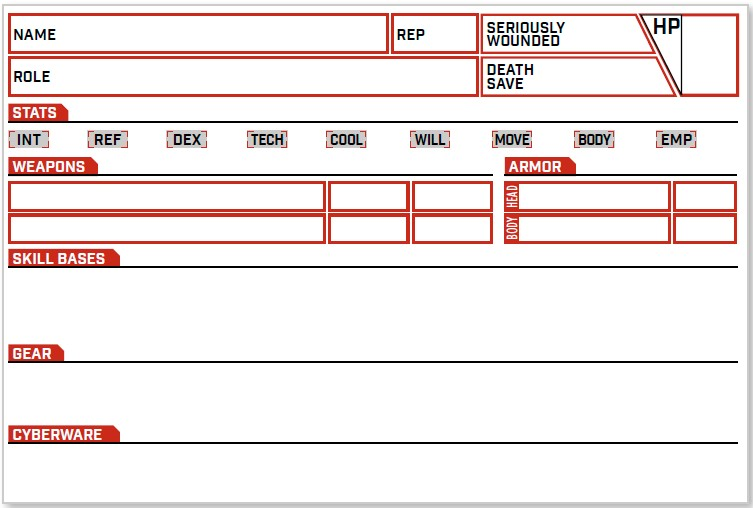
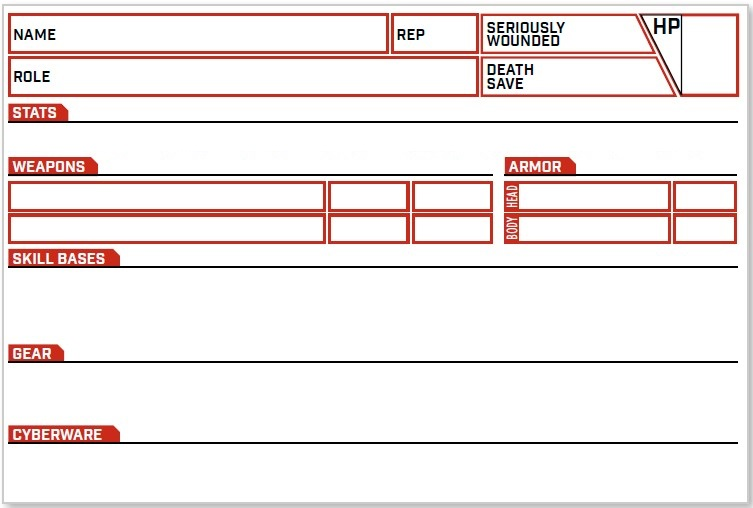
added luck to mookview and adjusted accordingly

diff --git a/MookViewer.py b/MookViewer.py
@@ -139,22 +139,23 @@ def get_index(*arg):
     mookint_label['text'] = stats.get('Int')
     mookref_label['text'] = stats.get('Ref')
     if len(stats.get('Ref')) > 2:
-        mookref_label.place(x=131, y=128)
+        mookref_label.place(x=101, y=128)
     else:
-        mookref_label.place(x=143, y=128)
+        mookref_label.place(x=115, y=128)
     mookdex_label['text'] = stats.get('Dex')
     if len(stats.get('Dex')) > 2:
-        mookdex_label.place(x=210, y=128)
+        mookdex_label.place(x=185, y=128)
     else:
-        mookdex_label.place(x=220, y=128)
+        mookdex_label.place(x=200, y=128)
     mooktech_label['text'] = stats.get('Tech')
     mookcool_label['text'] = stats.get('Cool')
+    mookluck_label['text'] = stats.get('Luck')
     mookwill_label['text'] = stats.get('Will')
     mookmove_label['text'] = stats.get('Move')
     if len(stats.get('Move')) > 2:
-        mookmove_label.place(x=536, y=128)
+        mookmove_label.place(x=570, y=128)
     else:
-        mookmove_label.place(x=546, y=128)
+        mookmove_label.place(x=580, y=128)
     mookbody_label['text'] = stats.get('Body')
     mookemp_label['text'] = stats.get('Emp')
     count = 1
@@ -227,26 +228,48 @@ mookseriouslywounded_label = tk.Label(win, text="sw", font=("Arial", 12), bg='#f
 mookseriouslywounded_label.place(x=580, y=25)
 mookdeathsave_label = tk.Label(win, text="ds", font=("Arial", 12), bg='#fff', fg='#000')
 mookdeathsave_label.place(x=580, y=66)
-mookhp_label = tk.Label(win, text="hp", font=("Arial", 20), bg='#fff', fg='#000')
-mookhp_label.place(x=692, y=39)
+mookhp_label = tk.Label(win, text="hp", font=("Arial", 26), bg='#fff', fg='#000')
+mookhp_label.place(x=687, y=33)
+intlabel = tk.Label(win, text="INT ", font=("Arial", 12), bg='#bbb', fg='#000')
+intlabel.place(x=10, y=128)
 mookint_label = tk.Label(win, text="int", font=("Arial", 12), bg='#fff', fg='#000')
-mookint_label.place(x=60, y=128)
+mookint_label.place(x=45, y=128)
+reflabel = tk.Label(win, text="REF ", font=("Arial", 12), bg='#bbb', fg='#000')
+reflabel.place(x=63, y=128)
 mookref_label = tk.Label(win, text="ref", font=("Arial", 12), bg='#fff', fg='#000')
-mookref_label.place(x=143, y=128)
+mookref_label.place(x=115, y=128)
+dexlabel = tk.Label(win, text="DEX ", font=("Arial", 12), bg='#bbb', fg='#000')
+dexlabel.place(x=140, y=128)
 mookdex_label = tk.Label(win, text="dex", font=("Arial", 12), bg='#fff', fg='#000')
-mookdex_label.place(x=220, y=128)
+mookdex_label.place(x=200, y=128)
+techlabel = tk.Label(win, text="TECH", font=("Arial", 12), bg='#bbb', fg='#000')
+techlabel.place(x=225, y=128)
 mooktech_label = tk.Label(win, text="tech", font=("Arial", 12), bg='#fff', fg='#000')
-mooktech_label.place(x=302, y=128)
+mooktech_label.place(x=280, y=128)
+coollabel = tk.Label(win, text="COOL", font=("Arial", 12), bg='#bbb', fg='#000')
+coollabel.place(x=300, y=128)
 mookcool_label = tk.Label(win, text="cool", font=("Arial", 12), bg='#fff', fg='#000')
-mookcool_label.place(x=382, y=128)
+mookcool_label.place(x=355, y=128)
+willlabel = tk.Label(win, text="WILL", font=("Arial", 12), bg='#bbb', fg='#000')
+willlabel.place(x=375, y=128)
 mookwill_label = tk.Label(win, text="will", font=("Arial", 12), bg='#fff', fg='#000')
-mookwill_label.place(x=464, y=128)
+mookwill_label.place(x=423, y=128)
+lucklabel = tk.Label(win, text="LUCK", font=("Arial", 12), bg='#bbb', fg='#000')
+lucklabel.place(x=445, y=128)
+mookluck_label = tk.Label(win, text="0", font=("Arial", 12), bg='#fff', fg='#000')
+mookluck_label.place(x=497, y=128)
+movelabel = tk.Label(win, text="MOVE", font=("Arial", 12), bg='#bbb', fg='#000')
+movelabel.place(x=515, y=128)
 mookmove_label = tk.Label(win, text="move", font=("Arial", 12), bg='#fff', fg='#000')
-mookmove_label.place(x=546, y=128)
+mookmove_label.place(x=580, y=128)
+bodylabel = tk.Label(win, text="BODY", font=("Arial", 12), bg='#bbb', fg='#000')
+bodylabel.place(x=610, y=128)
 mookbody_label = tk.Label(win, text="body", font=("Arial", 12), bg='#fff', fg='#000')
-mookbody_label.place(x=628, y=128)
+mookbody_label.place(x=663, y=128)
+emplabel = tk.Label(win, text="EMP", font=("Arial", 12), bg='#bbb', fg='#000')
+emplabel.place(x=680, y=128)
 mookemp_label = tk.Label(win, text="emp", font=("Arial", 12), bg='#fff', fg='#000')
-mookemp_label.place(x=710, y=128)
+mookemp_label.place(x=725, y=128)
 mookweapon1name_label = tk.Label(win, text="w1", font=("Arial", 12), bg='#fff', fg='#000')
 mookweapon1name_label.place(x=20, y=186)
 mookweapon1rof_label = tk.Label(win, text="rof", font=("Arial", 12), bg='#fff', fg='#000')

diff --git a/MookAdder.py b/MookAdder.py
@@ -1,0 +1,78 @@
+import databaseTools
+import mook
+import tkinter as tk
+from tkinter import ttk 
+from PIL import ImageTk, Image
+import numbers
+
+db = databaseTools.databaseTools()
+
+win = tk.Tk()
+win.geometry("753x508")
+win.title("Cyberpunk Red Mook Adder")
+
+background_image = Image.open("background.jpg")
+background = ImageTk.PhotoImage(background_image)
+image_label = tk.Label(win , image = background)
+image_label.place(x = 0 , y = 0)
+
+mooknaname_text = tk.Text(win, height=1, width=20, font=("Arial", 12), bg='#fff', fg='#000')
+mooknaname_text.place(x=80, y=25)
+mookrole_text = tk.Text(win, height=1, width=20, font=("Arial", 12), bg='#fff', fg='#000')
+mookrole_text.place(x=80, y=66)
+mookrep_text = tk.Text(win, height=1, width=3, font=("Arial", 12), bg='#fff', fg='#000')
+mookrep_text.place(x=435, y=25)
+mookseriouslywounded_label = tk.Label(win, text="0", font=("Arial", 12), bg='#fff', fg='#000')
+mookseriouslywounded_label.place(x=580, y=25)
+mookdeathsave_label = tk.Label(win, text="0", font=("Arial", 12), bg='#fff', fg='#000')
+mookdeathsave_label.place(x=580, y=66)
+mookhp_label = tk.Label(win, text="0", font=("Arial", 20), bg='#fff', fg='#000')
+mookhp_label.place(x=692, y=39)
+mookint_label = tk.Label(win, text="int", font=("Arial", 12), bg='#fff', fg='#000')
+mookint_label.place(x=60, y=128)
+mookref_label = tk.Label(win, text="ref", font=("Arial", 12), bg='#fff', fg='#000')
+mookref_label.place(x=143, y=128)
+mookdex_label = tk.Label(win, text="dex", font=("Arial", 12), bg='#fff', fg='#000')
+mookdex_label.place(x=220, y=128)
+mooktech_label = tk.Label(win, text="tech", font=("Arial", 12), bg='#fff', fg='#000')
+mooktech_label.place(x=302, y=128)
+mookcool_label = tk.Label(win, text="cool", font=("Arial", 12), bg='#fff', fg='#000')
+mookcool_label.place(x=382, y=128)
+mookwill_label = tk.Label(win, text="will", font=("Arial", 12), bg='#fff', fg='#000')
+mookwill_label.place(x=464, y=128)
+mookmove_label = tk.Label(win, text="move", font=("Arial", 12), bg='#fff', fg='#000')
+mookmove_label.place(x=546, y=128)
+mookbody_label = tk.Label(win, text="body", font=("Arial", 12), bg='#fff', fg='#000')
+mookbody_label.place(x=628, y=128)
+mookemp_label = tk.Label(win, text="emp", font=("Arial", 12), bg='#fff', fg='#000')
+mookemp_label.place(x=710, y=128)
+mookweapon1name_label = tk.Label(win, text="w1", font=("Arial", 12), bg='#fff', fg='#000')
+mookweapon1name_label.place(x=20, y=186)
+mookweapon1rof_label = tk.Label(win, text="rof", font=("Arial", 12), bg='#fff', fg='#000')
+mookweapon1rof_label.place(x=361, y=186)
+mookweapon1damage_label = tk.Label(win, text="dmg", font=("Arial", 12), bg='#fff', fg='#000')
+mookweapon1damage_label.place(x=441, y=186)
+mookweapon2name_label = tk.Label(win, text="w2", font=("Arial", 12), bg='#fff', fg='#000')
+mookweapon2name_label.place(x=20, y=219)
+mookweapon2rof_label = tk.Label(win, text="rof", font=("Arial", 12), bg='#fff', fg='#000')
+mookweapon2rof_label.place(x=361, y=219)
+mookweapon2damage_label = tk.Label(win, text="dmg", font=("Arial", 12), bg='#fff', fg='#000')
+mookweapon2damage_label.place(x=441, y=219)
+mookarmourhead_label = tk.Label(win, text="head", font=("Arial", 12), bg='#fff', fg='#000')
+mookarmourhead_label.place(x=522, y=186)
+mookarmourheadsp_label = tk.Label(win, text="spec", font=("Arial", 12), bg='#fff', fg='#000')
+mookarmourheadsp_label.place(x=698, y=186)
+mookarmourbody_label = tk.Label(win, text="body", font=("Arial", 12), bg='#fff', fg='#000')
+mookarmourbody_label.place(x=522, y=219)
+mookarmourbodysp_label = tk.Label(win, text="spec", font=("Arial", 12), bg='#fff', fg='#000')
+mookarmourbodysp_label.place(x=698, y=219)
+mookskills_label = tk.Label(win, text="skills", font=("Arial", 9), wraplength=733, justify="left", bg='#fff', fg='#000')
+mookskills_label.place(x=10, y=270)
+mookequipment_label = tk.Label(win, text="equipment", font=("Arial", 9), wraplength=733, justify="left", bg='#fff', fg='#000')
+mookequipment_label.place(x=10, y=368)
+mookcyberwear_label = tk.Label(win, text="cyberwear", font=("Arial", 9), wraplength=733, justify="left", bg='#fff', fg='#000')
+mookcyberwear_label.place(x=10, y=450)
+
+
+
+win.mainloop()
